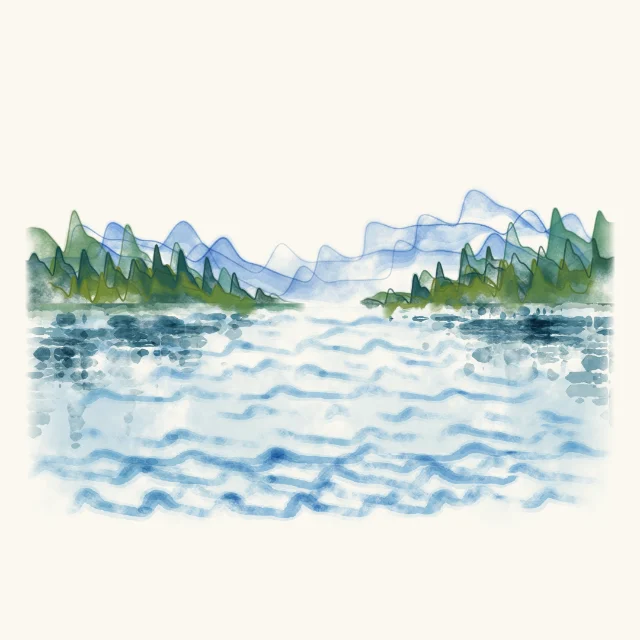
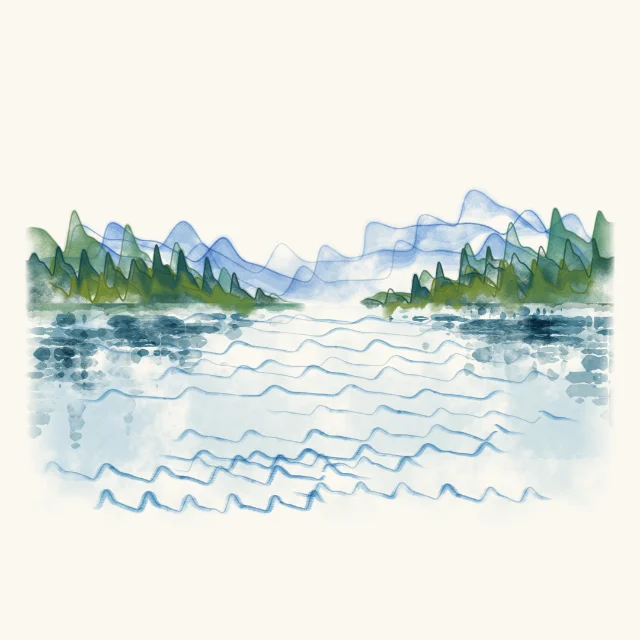
Make Quiet Lake foreground pulses smaller and more defined

Changed region(s): [[0.0312, 0.5, 0.9375, 0.8125], [0.125, 0.5312, 0.1875, 0.5625], [0.2812, 0.4688, 0.3125, 0.5]]

diff --git a/app/landscape.js b/app/landscape.js
@@ -202,7 +202,10 @@
         const river=riverAt(family,z,curve);x=river.center+(u-.5)*river.width;y=river.y+5*Math.sin(u*Math.PI);
       }else if(family==='reed-wetland')y=350+distance*610+6*Math.sin(u*Math.PI);
       else if(family==='quiet-lake'){
-        const width=curve.count===0?996:660+330*noise(curve.count,29),left=42+(996-width)*radical(curve.count+1);
+        // Shorter foreground passages keep a measured beat intimate at phone
+        // scale. The same five seconds of source still occupy each slot.
+        const span=1-.42*smooth((z-.22)/.60);
+        const width=curve.count===0?996:(660+330*noise(curve.count,29))*span,left=42+(996-width)*radical(curve.count+1);
         x=left+width*u;
         // Water's measured cross-sections occupy one continuous lake plane.
         // Linear depth spacing avoids the former unpainted middle shelf;
@@ -830,6 +833,7 @@
   function pulseImpressions(stroke,paint){
     if(paint.pulseImpressions)return paint.pulseImpressions;
     const curve=paint.curve,z=curve.depth,seed=stroke.material.grainSeed,core=pulseCore(stroke,paint);
+    const lakeWater=stroke.material.lake&&stroke.role==='water';
     const originalTimes=new Set(stroke.points.map(q=>q.t));
     // Every original measured knot owns one pressure impression. Hermite
     // interpolation remains available in pulseCore, but no fabricated knot
@@ -855,8 +859,10 @@
       const direction=last.x>=first.x?1:-1;
       const ends=.35+.65*Math.min(smooth((q.x-first.x)*direction/18),smooth((last.x-q.x)*direction/23));
       const pressure=(.69+.31*unit)*(.67+.33*wet)*ends;
-      const rx=(8+z*8+tooth*4)*(.63+.37*pressure),ry=(6+z*6+unit*2)*pressure;
-      const dy=ry*.62,halo=dab(q,rx*(1.28+tooth*.16),ry*(1.45+wet*.22)+1.2*ends,dy+ry*.20,key+42101);
+      // Keep the wet footprint below the pulse excursion so the measured
+      // upstroke and decay remain legible rather than merging into a cord.
+      const rx=(8+z*8+tooth*4)*(.63+.37*pressure)*(lakeWater?.46:1),ry=(6+z*6+unit*2)*pressure*(lakeWater?.38:1);
+      const dy=ry*.62,halo=dab(q,rx*(lakeWater?1.16+tooth*.10:1.28+tooth*.16),ry*(lakeWater?1.23+wet*.12:1.45+wet*.22)+(lakeWater?.35:1.2)*ends,dy+ry*.20,key+42101);
       const body=dab(q,rx,ry,dy,key+42901),pool=new global.Path2D();
       // Local concentration is another small impression inside the wet tip,
       // selected by the real normalized sample value and material pressure.
@@ -900,13 +906,13 @@
     ctx.restore();
   }
   function drawPulseCore(ctx,scene,stroke,paint,alpha,stop){
-    const ridge=stroke.role==='lake-ridge',source=pulseCore(stroke,paint),nodes=markPrefix(source,stop);
+    const ridge=stroke.role==='lake-ridge',water=stroke.material.lake&&stroke.role==='water',source=pulseCore(stroke,paint),nodes=markPrefix(source,stop);
     if(nodes.length<2)return;
     ctx.save();ctx.lineCap='round';ctx.lineJoin='round';
     const curve=paint.curve,first=curvePoint(curve,0,.5),last=curvePoint(curve,1,.5),gradient=ctx.createLinearGradient(first.x,first.y,last.x,last.y);
     for(let i=0;i<=12;i++){const u=i/12,base=pigment(scene,stroke,u,ridge?.77:.73),ends=smooth(u/.025)*smooth((1-u)/.03);gradient.addColorStop(u,color(base,ends));}
-    pathPoints(ctx,nodes);ctx.strokeStyle=gradient;ctx.globalAlpha=alpha*(ridge?.66:.62);ctx.lineWidth=ridge?2.25:2.5;ctx.stroke();
-    ctx.strokeStyle=poolPattern(ctx,scene,stroke);ctx.globalAlpha=alpha*.14;ctx.lineWidth=4.2;ctx.stroke();ctx.restore();
+    pathPoints(ctx,nodes);ctx.strokeStyle=gradient;ctx.globalAlpha=alpha*((ridge||water)?.66:.62);ctx.lineWidth=ridge?2.25:water?1.35+curve.depth*.60:2.5;ctx.stroke();
+    ctx.strokeStyle=poolPattern(ctx,scene,stroke);ctx.globalAlpha=alpha*.14;ctx.lineWidth=water?2.8:4.2;ctx.stroke();ctx.restore();
   }
   function drawStroke(ctx,scene,stroke,progress=1){
     if(progress<=0)return;
@@ -958,7 +964,10 @@
     const wash=poolPattern(ctx,scene,stroke);
     if((m.painterly&&['water','pool'].includes(stroke.role)&&!m.underpaint)||m.reflected){
       if(m.reflected){support(1,0);ctx.clip();drawPigmentIslands(ctx,stroke,paint,wash,alpha,stop);}
-      else drawPulseImpressions(ctx,scene,stroke,paint,alpha,stop);
+      else {
+        drawPulseImpressions(ctx,scene,stroke,paint,alpha,stop);
+        if(m.lake&&stroke.role==='water')drawPulseCore(ctx,scene,stroke,paint,alpha,stop);
+      }
       ctx.restore();return;
     }
     // Uneven, overlapping deposits form one wash. Most pigment pools

diff --git a/docs/media/README.md b/docs/media/README.md
@@ -1,79 +1,66 @@
 # Pulse Painting screenshots
 
-These are direct browser captures of the current local landscape release candidate,
-including the accepted Quiet Lake paint treatment. They replace the earlier
-manuscript screenshots. They do not establish a production deployment; see
-[HANDOFF.md](../../HANDOFF.md) for release status.
+These are direct browser captures of the actual static app. Capture, report and
+desktop images were refreshed on October 22, 2026 (America/Chicago) for the finer
+Quiet Lake foreground. Ready and QR retain their unchanged first-release images.
+See [HANDOFF.md](../../HANDOFF.md) for deployment status.
 
-Captured from the actual static `dist/` build at `http://127.0.0.1:64314/` between
-`2026-10-23T03:45:21.438Z` and `2026-10-23T03:48:44.272Z`
-(October 22, 2026 in America/Chicago). The source revision before this documentation
-update was `163329204fd95c80c1eb869d29cf403836c22693`.
+## Current artwork images
 
-## Capture method
+- Chrome 155.0.8059.85 through Playwright 1.63.0 on macOS. Phone viewport:
+  390 × 844 CSS pixels; desktop: 1440 × 1000; device scale factor 1. Fonts loaded,
+  normal motion enabled. Direct browser JPEGs; no screenshot pixels, interface
+  text, countdown, metric values or QR elements were edited after capture.
+- The original public `test/fixtures/iphone-200s.json` was preloaded through
+  170 recorded seconds using the real signal engine, accepted-window adapter
+  and application callbacks. Camera I/O was mocked, so the live thumbnail is
+  empty. No samples were duplicated and no metrics were substituted.
+- Quiet Lake seed 39293 contains 28 accepted segments / 138.967 usable seconds.
+  Capture shows the real app countdown **0:29** and computed live values
+  **71 bpm, 62 ms RMSSD, 51 ms SDNN** while the normal close-up painting runs.
+  The first pass's mid-water camera position is used for the README.
+- The actual **Finish painting** button starts the animated zoom-out. The report
+  screenshot waits for the same-scene export to become ready. Report values are
+  **71 bpm, 52.8 ms RMSSD and 46.8 ms SDNN**. A separate PNG export was also checked.
+- The desktop background is the current public-fixture gallery example: the
+  same seed, replay through 180 seconds, 148.9 usable seconds. The desktop and
+  report images came from the final screenshot pass at
+  `2026-10-23T04:21:11.940Z` and `2026-10-23T04:21:30.194Z`.
+- Both screenshot passes completed without runtime errors. Helper and raw
+  evidence are in ignored `.dream-loop/foreground-pulse/screens/`.
 
-- Chrome `155.0.8059.85`, controlled through Playwright 1.63.0 on macOS.
-- The three phone screens use iPhone 13 browser emulation at 390 × 844 CSS pixels.
-  Desktop uses 1440 × 1000; the additional narrow desktop QR view uses 634 × 1014.
-  Every capture uses device scale factor 1 and reduced motion, with fonts loaded.
-- Direct browser JPEG output at quality 85, limited to the viewport. No screenshot
-  pixels, interface text, metric values or QR elements were edited after capture.
-- Ready and desktop are ordinary page renders. The desktop background is the
-  actual Quiet Lake gallery example, generated by the app renderer from the
-  public fixture with seed 39293 and 148.9 seconds of accepted waveform.
-- Capture and report use a 1× wall-clock replay of
-  `test/fixtures/iphone-200s.json` through the built signal engine, real monitor
-  window adapter and application callbacks. Only camera I/O is mocked. The empty
-  live-preview thumbnail is expected. Scene family and seed are fixed to
-  `quiet-lake` and `39293` for repeatable artwork.
-- The capture image was taken after 50.008 active measurement seconds and 68.924
-  seconds of fixture replay. Its real countdown is **2:11**; its displayed pulse,
-  RMSSD and SDNN are **67 bpm, 42 ms and 37 ms**. At that point the painting contains
-  39.683 seconds of accepted waveform.
-- The session completed automatically after 180.079 active measurement seconds.
-  The report contains 168.733 seconds of accepted waveform (displayed as 2 min
-  49 sec), and computes **71 bpm, 54.5 ms RMSSD and 51.5 ms SDNN**. The report capture
-  waits for the actual artwork export to become ready. The replay consumed
-  11,102 of the original 11,127 fixture samples; no repeated tail was needed.
-- These are public-fixture results, not new physical-phone measurements,
-  physiological-accuracy evidence, native share-sheet acceptance or a performance
-  benchmark. No physical camera or native sharing action was used.
+Renderer and served `dist/landscape.js` SHA-256:
 
-The screenshot run completed without page errors. Its reproducible capture script
-and raw evidence remain in ignored `.dream-loop/release-readme/`; they are separate
-from the full WebKit interruption-recovery test.
-
-## Build and input provenance
-
-The source renderer and served `dist/landscape.js` were both checked against:
-
[2 lines of base64/hex data omitted]
 
 Public fixture SHA-256:
 
[1 lines of base64/hex data omitted]
 
-Served gallery manifest SHA-256:
+Current gallery manifest SHA-256:
 
[2 lines of base64/hex data omitted]
 
-The [gallery manifest](../../app/assets/gallery/manifest.json) records the renderer,
-fixture, engine, acceptance adapter and individual gallery image hashes.
+These accelerated replay images are not real-time-session measurements,
+physical-phone validation, physiological-accuracy evidence, native-share tests
+or performance benchmarks.
 
-## Image files
+## Retained ready and QR images
 
-| File | Pixels | Bytes | Captured at (UTC) |
-| --- | --- | ---: | --- |
-| `pulse-painting-desktop-candidate.jpg` | 1440 × 1000 | 151,921 | `2026-10-23T03:45:21.438Z` |
-| `pulse-painting-qr.jpg` | 634 × 1014 | 81,054 | `2026-10-23T03:45:21.784Z` |
-| `pulse-painting-ready.jpg` | 390 × 844 | 51,933 | `2026-10-23T03:45:22.967Z` |
-| `pulse-painting-capture.jpg` | 390 × 844 | 39,615 | `2026-10-23T03:46:33.679Z` |
-| `pulse-painting-report.jpg` | 390 × 844 | 52,144 | `2026-10-23T03:48:44.271Z` |
+Ready (390 × 844) and narrow desktop QR (634 × 1014) were captured directly from
+the prior build on `2026-10-23T03:45:22.967Z` and
+`2026-10-23T03:45:21.784Z`, respectively. Both use Chrome 155.0.8059.85, device
+scale factor 1 and reduced motion. These screens are unchanged by the foreground
+correction. Their source renderer was
[1 lines of base64/hex data omitted]
+Original capture evidence is in ignored `.dream-loop/release-readme/`.
 
-| File | SHA-256 |
-| --- | --- |
[5 lines of base64/hex data omitted]
+## Image integrity
+
+| File | Bytes | SHA-256 |
+| --- | ---: | --- |
[5 lines of base64/hex data omitted]

diff --git a/docs/validation/defined-foreground-2026-10-22.md b/docs/validation/defined-foreground-2026-10-22.md
@@ -1,0 +1,62 @@
+# Defined Quiet Lake foreground
+
+The phone capture made the lake's foreground pulses look oversized and blurred.
+This correction shortens the nearer water passages, reduces their wet brush-tip
+footprint, and adds a fine pigment contour following the existing measured path.
+The distant underwash, shore, mountains and other fifteen scene families retain
+their released treatment.
+
+## Data and visual scope
+
+- Original waveform samples, sample times, quality attribution, five-second
+  source slots and usable-time density are unchanged. No synthetic beats or
+  dicrotic notches are introduced. The original waveform manuscript is unchanged.
+- The organic interpolation still passes through every measured knot and keeps
+  its existing bounds. The change is artistic projection and pigment placement.
+- Foreground passage width decreases by up to 42%. Lake-water brush-tip width
+  and height use 46% and 38% of the previous dimensions, with a smaller halo.
+- Independent visual review passed the compact candidate at **8/10**, inspecting
+  three seeds at 390 pixels and a short recording. The remaining minor issue is
+  a small overlap of foreground rows; it does not obscure the overall pulse
+  character. Independent code review found no actionable correctness issue.
+- All sixteen public gallery examples were regenerated. Only Quiet Lake's
+  image, thumbnail and labeled share image changed, plus the Quiet Lake social
+  card. The other fifteen families' image hashes are unchanged.
+
+Frozen renderer SHA-256:
+
[1 lines of base64/hex data omitted]
+
+## Verification
+
+- `npm test` passed: source/provenance model checks; all sixteen family
+  compositor, reveal and disposal checks; focused Chromium/WebKit compositor
+  regression; actual application callbacks, reports, exports and recovery;
+  GPU failure fallback; and the complete desktop gallery checks.
+- Additional Quiet Lake parity passed in Chromium and WebKit: seeds 39293, 17
+  and 9991, short and dense records, three render checkpoints per case. All
+  36 checkpoints were pixel-exact between the live compositor and export, and
+  repeated export was pixel-exact. Source objects remained unchanged.
+- The application suite also passed separately in WebKit, including export
+  encoder/renderer recovery and source-artwork parity.
+- Live raster and material budgets remain 2,560,000 and 4,489,216 pixels.
+- Dense Chrome replay performance (390 × 844, DPR 3, 150-second preload plus
+  20 seconds of streaming data) measured **59.95 fps** active painting with
+  both WebGPU and WebGL2 entry backends. At 4× CPU throttling, active painting
+  measured **57.40 / 57.05 fps**, respectively. Entry animation measured 60 fps
+  in all four cases. The slowest active interval was 50 ms at 4× CPU; these are
+  desktop-browser measurements, not physical-phone frame-rate guarantees.
+  No runtime or console errors occurred; no raster budget increased.
+- This is a renderer-only change. Camera, timing and lifecycle logic did not
+  change; the previous release's full interrupted three-minute test is recorded
+  separately in [the landscape release evidence](landscape-accepted-2026-10-22.md).
+  It was not rerun for this visual correction.
+
+Evidence and review images are in ignored `.dream-loop/foreground-pulse/`.
+The public gallery's checked-in manifest records reproducible source and image
+hashes. Browser replay does not establish physical iPhone camera, thermal,
+physiological-accuracy or native-share validation.
+
+The older isolated transparent-prefix zero-alpha diagnostic remains a separate
+known native-raster precision limitation; this change does not claim to resolve
+it or relax its threshold.

diff --git a/HANDOFF.md b/HANDOFF.md
@@ -1,5 +1,22 @@
 # Pulse Painting handoff
 
+## Foreground pulse correction
+
+The user's phone feedback identified oversized, blurred Quiet Lake foreground
+waves. The correction uses smaller wet brush marks, a fine contour through the
+actual measured samples, and shorter foreground passages. Source samples,
+timing, quality and usable-time density are unchanged. The other fifteen scenes'
+gallery image hashes are unchanged. Independent visual review passed at 8/10.
+
+Frozen renderer SHA-256:
[1 lines of base64/hex data omitted]
+`npm test`, the separate WebKit app suite, and three-seed Quiet Lake parity in
+both engines passed. The gallery and three README images are refreshed from
+the actual renderer. See
+`docs/validation/defined-foreground-2026-10-22.md` for evidence and scope.
+Production deployment of this correction is pending; the release below remains
+the currently verified public build until promotion and anonymous verification.
+
 ## Current production release
 
 The user accepted the hosted Quiet Lake V18-combined paint treatment with

diff --git a/README.md b/README.md
@@ -15,7 +15,7 @@ Pulse Painting is a three-minute phone-camera capture experience by [ChatPPG](ht
   <img src="docs/media/pulse-painting-report.jpg" width="230" alt="Shareable Pulse Painting artwork and report">
 </p>
 
-The current screenshots use a real-time replay of the public recording with mocked camera input and reduced motion enabled; see [capture provenance](docs/media/README.md). They are not new physical-phone measurements.
+The current capture and report screenshots use an accelerated preload of the public recording, mocked camera input, and the normal animated artwork reveal; see [capture provenance](docs/media/README.md). They are not new physical-phone measurements or a real-time session benchmark.
 
 The primary destination is [pulsepainting.com](https://www.pulsepainting.com/), a separate Vercel project connected to this repository. The apex domain redirects to www. The simple library demo remains at [ChatPPG](https://chatppg.com/ppg-js-demo). Release and public verification status are tracked in [HANDOFF.md](HANDOFF.md).
 
